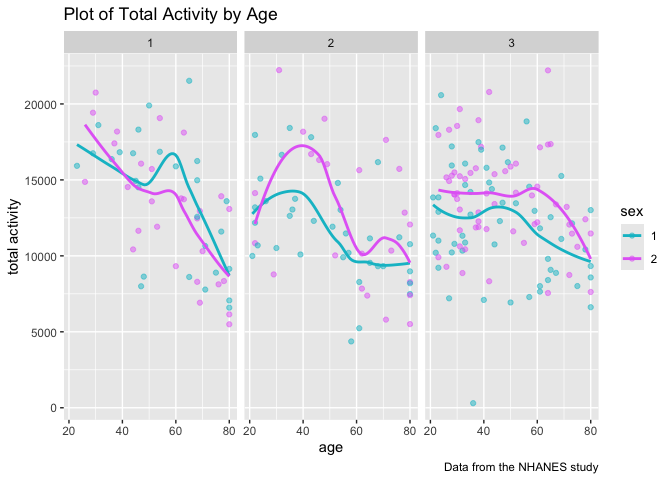
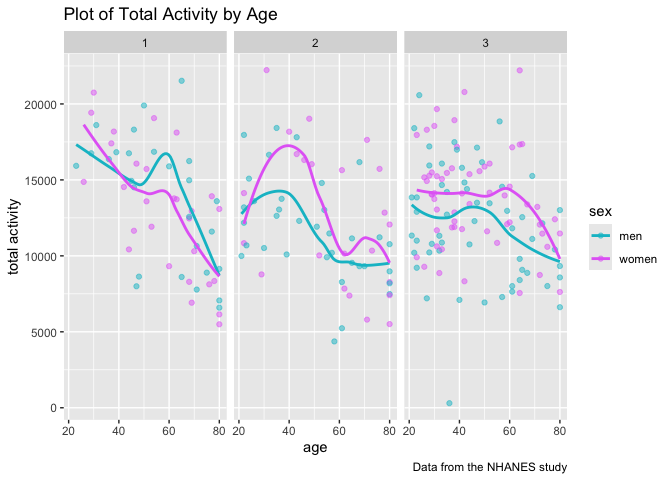
Q2 Q3 updated

diff --git a/p8105_hw3_az2852.md b/p8105_hw3_az2852.md
@@ -3,26 +3,12 @@ p8105_hw3_az2852
 
 ``` r
 library(tidyverse)
-```
-
-    ## ── Attaching core tidyverse packages ──────────────────────── tidyverse 2.0.0 ──
-    ## ✔ dplyr     1.1.4     ✔ readr     2.1.5
-    ## ✔ forcats   1.0.0     ✔ stringr   1.5.1
-    ## ✔ ggplot2   3.5.1     ✔ tibble    3.2.1
-    ## ✔ lubridate 1.9.3     ✔ tidyr     1.3.1
-    ## ✔ purrr     1.0.2     
-    ## ── Conflicts ────────────────────────────────────────── tidyverse_conflicts() ──
-    ## ✖ dplyr::filter() masks stats::filter()
-    ## ✖ dplyr::lag()    masks stats::lag()
-    ## ℹ Use the conflicted package (<http://conflicted.r-lib.org/>) to force all conflicts to become errors
-
-``` r
 library(lubridate)
 library(patchwork)
 library(viridis)
 ```
 
-    ## Loading required package: viridisLite
+# Problem 1
 
 ``` r
 library(p8105.datasets)
@@ -133,7 +119,7 @@ join the datasets
 mims_df = demo_df %>% 
   left_join(data_df, by = "seqn") %>% 
   mutate(
-    sex = factor(sex),
+    sex = factor(sex, levels = c(1,2), labels = c("men", "women")),
     education = factor(education)
   )
 
@@ -143,16 +129,16 @@ mims_df
     ## # A tibble: 228 × 1,445
     ##     seqn sex     age   bmi education  min1   min2   min3  min4   min5   min6
     ##    <dbl> <fct> <dbl> <dbl> <fct>     <dbl>  <dbl>  <dbl> <dbl>  <dbl>  <dbl>
-    ##  1 62161 1        22  23.3 2         1.11  3.12   1.47   0.938 1.60   0.145 
-    ##  2 62164 2        44  23.2 3         1.92  1.67   2.38   0.935 2.59   5.22  
-    ##  3 62169 1        21  20.1 2         5.85  5.18   4.76   6.48  6.85   7.24  
-    ##  4 62174 1        80  33.9 3         5.42  3.48   3.72   3.81  6.85   4.45  
-    ##  5 62177 1        51  20.1 2         6.14  8.06   9.99   6.60  4.57   2.78  
-    ##  6 62178 1        80  28.5 2         0.167 0.429  0.131  1.20  0.0796 0.0487
-    ##  7 62180 1        35  27.9 3         0.039 0      0      0     0.369  0.265 
-    ##  8 62184 1        26  22.1 2         1.55  2.81   3.86   4.76  6.10   7.61  
-    ##  9 62189 2        30  22.4 3         2.81  0.195  0.163  0     0.144  0.180 
-    ## 10 62199 1        57  28   3         0.031 0.0359 0.0387 0.079 0.109  0.262 
+    ##  1 62161 men      22  23.3 2         1.11  3.12   1.47   0.938 1.60   0.145 
+    ##  2 62164 women    44  23.2 3         1.92  1.67   2.38   0.935 2.59   5.22  
+    ##  3 62169 men      21  20.1 2         5.85  5.18   4.76   6.48  6.85   7.24  
+    ##  4 62174 men      80  33.9 3         5.42  3.48   3.72   3.81  6.85   4.45  
+    ##  5 62177 men      51  20.1 2         6.14  8.06   9.99   6.60  4.57   2.78  
+    ##  6 62178 men      80  28.5 2         0.167 0.429  0.131  1.20  0.0796 0.0487
+    ##  7 62180 men      35  27.9 3         0.039 0      0      0     0.369  0.265 
+    ##  8 62184 men      26  22.1 2         1.55  2.81   3.86   4.76  6.10   7.61  
+    ##  9 62189 women    30  22.4 3         2.81  0.195  0.163  0     0.144  0.180 
+    ## 10 62199 men      57  28   3         0.031 0.0359 0.0387 0.079 0.109  0.262 
     ## # ℹ 218 more rows
     ## # ℹ 1,434 more variables: min7 <dbl>, min8 <dbl>, min9 <dbl>, min10 <dbl>,
     ## #   min11 <dbl>, min12 <dbl>, min13 <dbl>, min14 <dbl>, min15 <dbl>,
@@ -161,9 +147,7 @@ mims_df
     ## #   min26 <dbl>, min27 <dbl>, min28 <dbl>, min29 <dbl>, min30 <dbl>,
     ## #   min31 <dbl>, min32 <dbl>, min33 <dbl>, min34 <dbl>, min35 <dbl>, …
 
-Produce a reader-friendly table for the number of men and women in each
-education category, and create a visualization of the age distributions
-for men and women in each education category.
+### Produce a reader-friendly table for the number of men and women in each education category
 
 ``` r
 mims_df %>% 
@@ -174,18 +158,18 @@ mims_df %>%
   pivot_wider(
     names_from = sex,
     values_from = n_obs
-  ) %>% 
+  ) %>%
   knitr::kable()
 ```
 
     ## `summarise()` has grouped output by 'education'. You can override using the
     ## `.groups` argument.
 
-| education |   1 |   2 |
-|:----------|----:|----:|
-| 1         |  27 |  28 |
-| 2         |  35 |  23 |
-| 3         |  56 |  59 |
+| education | men | women |
+|:----------|----:|------:|
+| 1         |  27 |    28 |
+| 2         |  35 |    23 |
+| 3         |  56 |    59 |
 
 The table shows the number of men (1) and women (2) in each education
 cateogy (1 = less than high school, 2 = high school equivalent, 3 = more
@@ -194,17 +178,20 @@ women. Overall, most of our participants have a more than high school
 education. The proportions of men and women in each education category
 are roughly the same.
 
+### create a visualization of the age distributions for men and women in each education category.
+
 ``` r
 ggplot(mims_df, aes(x = age, fill = education)) + 
   geom_histogram(alpha = .7) +
   facet_grid(. ~ sex)+
+  scale_y_continuous(breaks = 0:13)+
   labs(
     title = "Age Distribution",
     x = "Age",
     y = "Count",
     color = "Education",
     caption = "Data from the NHANES study")+
-  theme_minimal()
+    theme_minimal()
 ```
 
     ## `stat_bin()` using `bins = 30`. Pick better value with `binwidth`.
@@ -242,12 +229,20 @@ mims_df %>%
 ![](p8105_hw3_az2852_files/figure-gfm/unnamed-chunk-10-1.png)<!-- -->
 The plot shows total activity by age comparing men and women across
 education levels (1 = less than high school, 2 = high school equivalent,
-3 = more than high school). Overall, activity gradually declines when
-age increases. The slope seems to be steepest in category 1, followed by
-category 2 and 3. There seems to be a gender difference in total
-activity. On average, women in categories 2 and 3 have a higher activity
-than men in the same education categories, but in category 1 men move
-more than women.
+3 = more than high school).
+
+Overall, activity gradually declines with age from early 20 to 80 years
+old. The decline in activity is the fastest in category 1, and slowest
+in category 3. People in category 2 show an increase in activity from 21
+to 40, whereas in category 1 there seems to be a decrease during the
+same time, and the amount to activity doesn’t change much for category
+3. This suggest that people with different education level might have
+different lifestyles that requries different amounts of activity.
+
+There also seems to be a gender difference in total activity. On
+average, women in categories 2 and 3 have a higher activity than men in
+the same education categories, but in category 1 men move more than
+women.
 
 ### Make a three-panel plot that shows the 24-hour activity time courses for each education level and use color to indicate sex. Describe in words any patterns or conclusions you can make based on this graph; including smooth trends may help identify differences.
 
@@ -300,6 +295,7 @@ mims_hr_df %>%
   geom_smooth(se = FALSE) +
   geom_point(alpha = 0.3)+
   facet_grid(. ~ education)+
+  theme_minimal()+
   labs(
     title = "Plot of Total Activity by Hours",
     x = "Hour",
@@ -311,15 +307,15 @@ mims_hr_df %>%
     ## `geom_smooth()` using method = 'gam' and formula = 'y ~ s(x, bs = "cs")'
 
 ![](p8105_hw3_az2852_files/figure-gfm/unnamed-chunk-12-1.png)<!-- -->
-Overall, activity increases after around 5 am, reaches the peak at
-around 10 am, and then plateaus till around 8 pm, and then starts to
-decrease. Activity is lowest in the early morning around 4 am, and then
-gradually increases as the person wakes up. The sharpest increase occurs
-in the morning (5am to 10am). Regarding education levels, similar
-conclusions can be drawn as before: women who have higher educational
-status have a higher total activity during the day than their men
-counterparts. It’s hard to tell from the plot if there is any gender
-differences for activity at night.
+The plot contains 3 outliers from education category 3 whose activity is
+almost 3 times as high as the others. Overall, activity increases after
+around 5 am, reaches the peak at around 10 am, and then plateaus till
+around 8 pm, and then starts to decrease. Activity is lowest in the
+early morning around 4 am, and then gradually increases as the person
+wakes up. The sharpest increase occurs in the morning (5am to 10am).
+Regarding education levels, similar conclusions can be drawn as before:
+women who have higher educational status have a higher total activity
+during the day than men do, but at night, activity is roughly the same.
 
 # Problem 3
 
@@ -392,7 +388,25 @@ citi_072024_df = citi_072024_df %>%
 
 citi_df = bind_rows(citi_012020_df, citi_072020_df, citi_012024_df, citi_072024_df) %>% 
   rename(membership = member_casual)
+
+citi_df
 ```
+
+    ## # A tibble: 99,485 × 8
+    ##    ride_id   rideable_type weekdays duration start_station_name end_station_name
+    ##    <chr>     <chr>         <chr>       <dbl> <chr>              <chr>           
+    ##  1 4BE06CB3… classic_bike  Tuesday     15.3  Columbus Ave & W … E 53 St & Madis…
+    ##  2 26886E03… classic_bike  Wednesd…     5.31 2 Ave & E 96 St    1 Ave & E 110 St
+    ##  3 24DC5606… classic_bike  Friday       9.69 Columbia St & Riv… Grand St & Eliz…
+    ##  4 EEDC1053… classic_bike  Sunday       7.00 W 84 St & Columbu… Columbus Ave & …
+    ##  5 2CD4BD4C… classic_bike  Friday       2.85 Forsyth St & Broo… Suffolk St & St…
+    ##  6 E18682F9… classic_bike  Sunday      25.5  Allen St & Hester… Atlantic Ave & …
+    ##  7 B9B2E896… classic_bike  Sunday       3.65 Lafayette St & Je… Washington Pl &…
+    ##  8 DEF8F504… classic_bike  Sunday      38.3  28 Ave & 44 St     Broadway & Kosc…
+    ##  9 17D44DA9… classic_bike  Thursday    38.5  Barrow St & Hudso… Emerson Pl & My…
+    ## 10 0FD113A3… classic_bike  Tuesday      6.52 Carlton Ave & Par… Emerson Pl & My…
+    ## # ℹ 99,475 more rows
+    ## # ℹ 2 more variables: membership <chr>, month_year <dbl>
 
 The resulting dataset (99485 x 8) contains data on rides taken on the
 NYC Citi Bike system. It contain 1% of all rides with a total duration
@@ -400,7 +414,9 @@ less than 4 hours in each of four months: Jan 2020, Jul 2020, Jan 2024,
 and Jul 2024. I created a variable “month_year” to indicate which month
 and year the observation is from. Important variables are: rideable type
 (classic bike or electric bike), weekdays, duration, start and end
-station name, and membership(member or casual).
+station name, and membership(member or casual). rideable type, weekdays,
+membership are in character format, we need to turn them into factors
+later.
 
 ### Produce a reader-friendly table showing the total number of rides in each combination of year and month separating casual riders and Citi Bike members. Comment on these results.
 
@@ -439,20 +455,20 @@ citi_df %>%
   filter(month_year == 072024) %>% 
   group_by(start_station_name) %>% 
   summarize(
-    n_obs = n()
+    n_rides = n()
   ) %>% 
-  arrange(desc(n_obs)) %>% 
+  arrange(desc(n_rides)) %>% 
   slice(1:5) %>% 
   knitr::kable()
 ```
 
-| start_station_name       | n_obs |
-|:-------------------------|------:|
-| Pier 61 at Chelsea Piers |   163 |
-| University Pl & E 14 St  |   155 |
-| W 21 St & 6 Ave          |   152 |
-| West St & Chambers St    |   150 |
-| W 31 St & 7 Ave          |   146 |
+| start_station_name       | n_rides |
+|:-------------------------|--------:|
+| Pier 61 at Chelsea Piers |     163 |
+| University Pl & E 14 St  |     155 |
+| W 21 St & 6 Ave          |     152 |
+| West St & Chambers St    |     150 |
+| W 31 St & 7 Ave          |     146 |
 
 ### Make a plot to investigate the effects of day of the week, month, and year on median ride duration. This plot can include one or more panels, but should facilitate comparison across all variables of interest. Comment on your observations from this plot.
 
@@ -525,6 +541,7 @@ citi_df %>%
     ## using the `.groups` argument.
 
 ![](p8105_hw3_az2852_files/figure-gfm/unnamed-chunk-18-1.png)<!-- -->
+
 Overall, it appears that ride duration is longer for electric bikes than
 classic bikes. It seems like membership affects the ride duration of
 classic bikes more than it does electric bikes. Casuals tend to ride for
